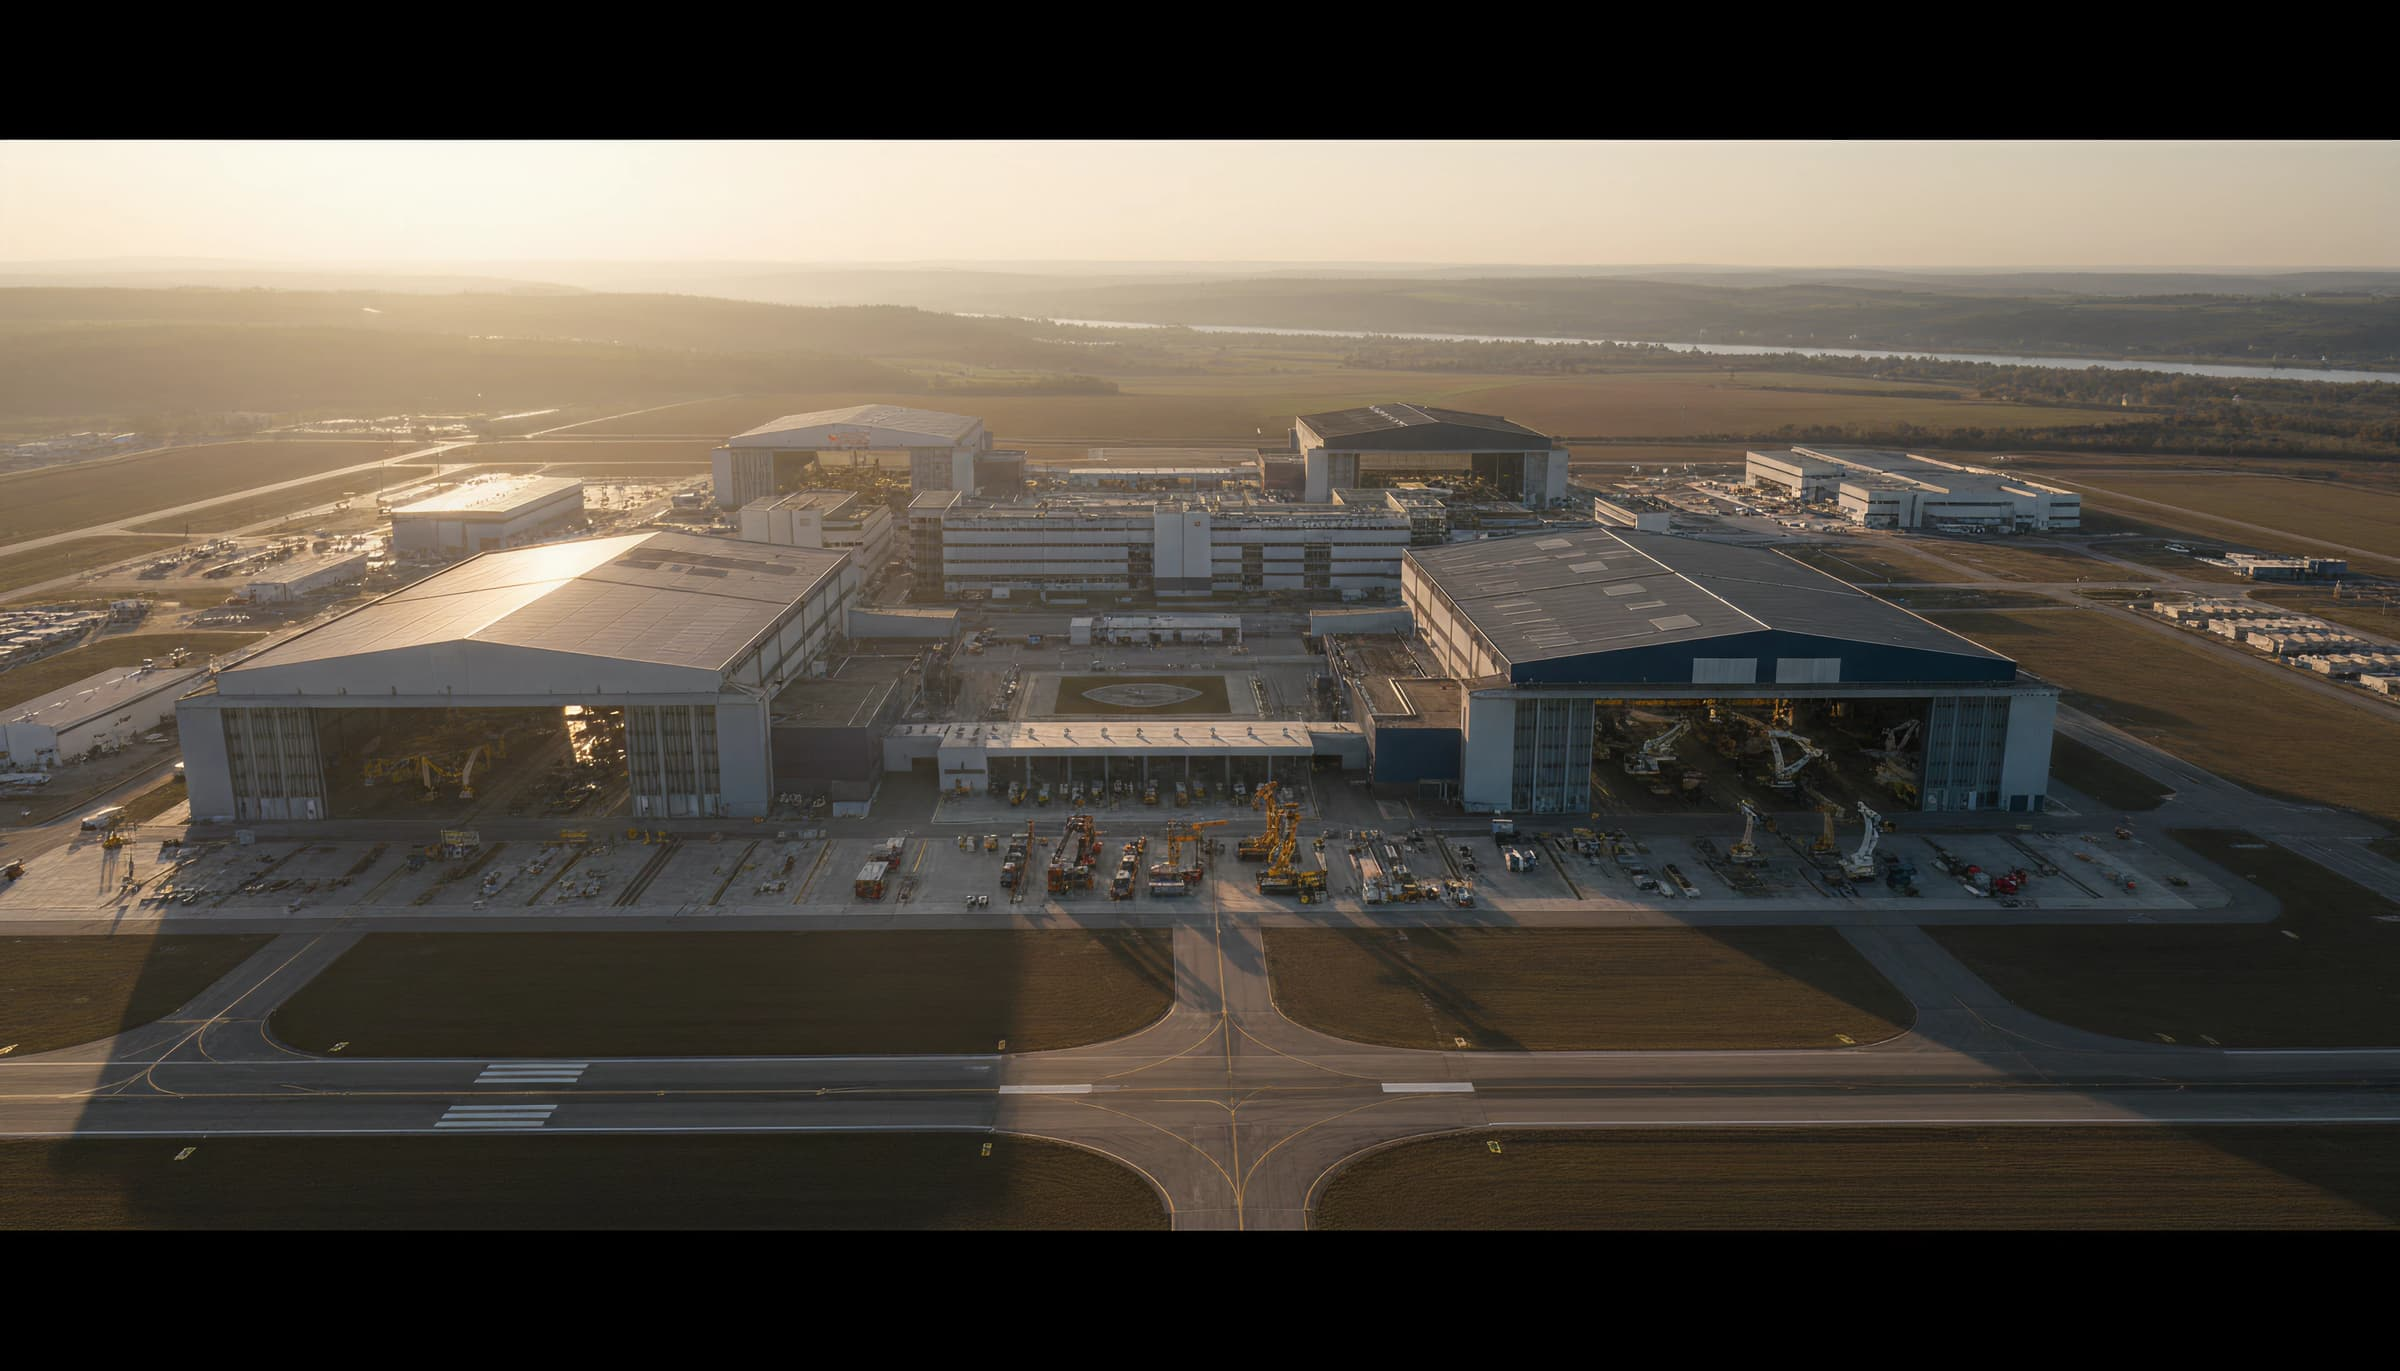
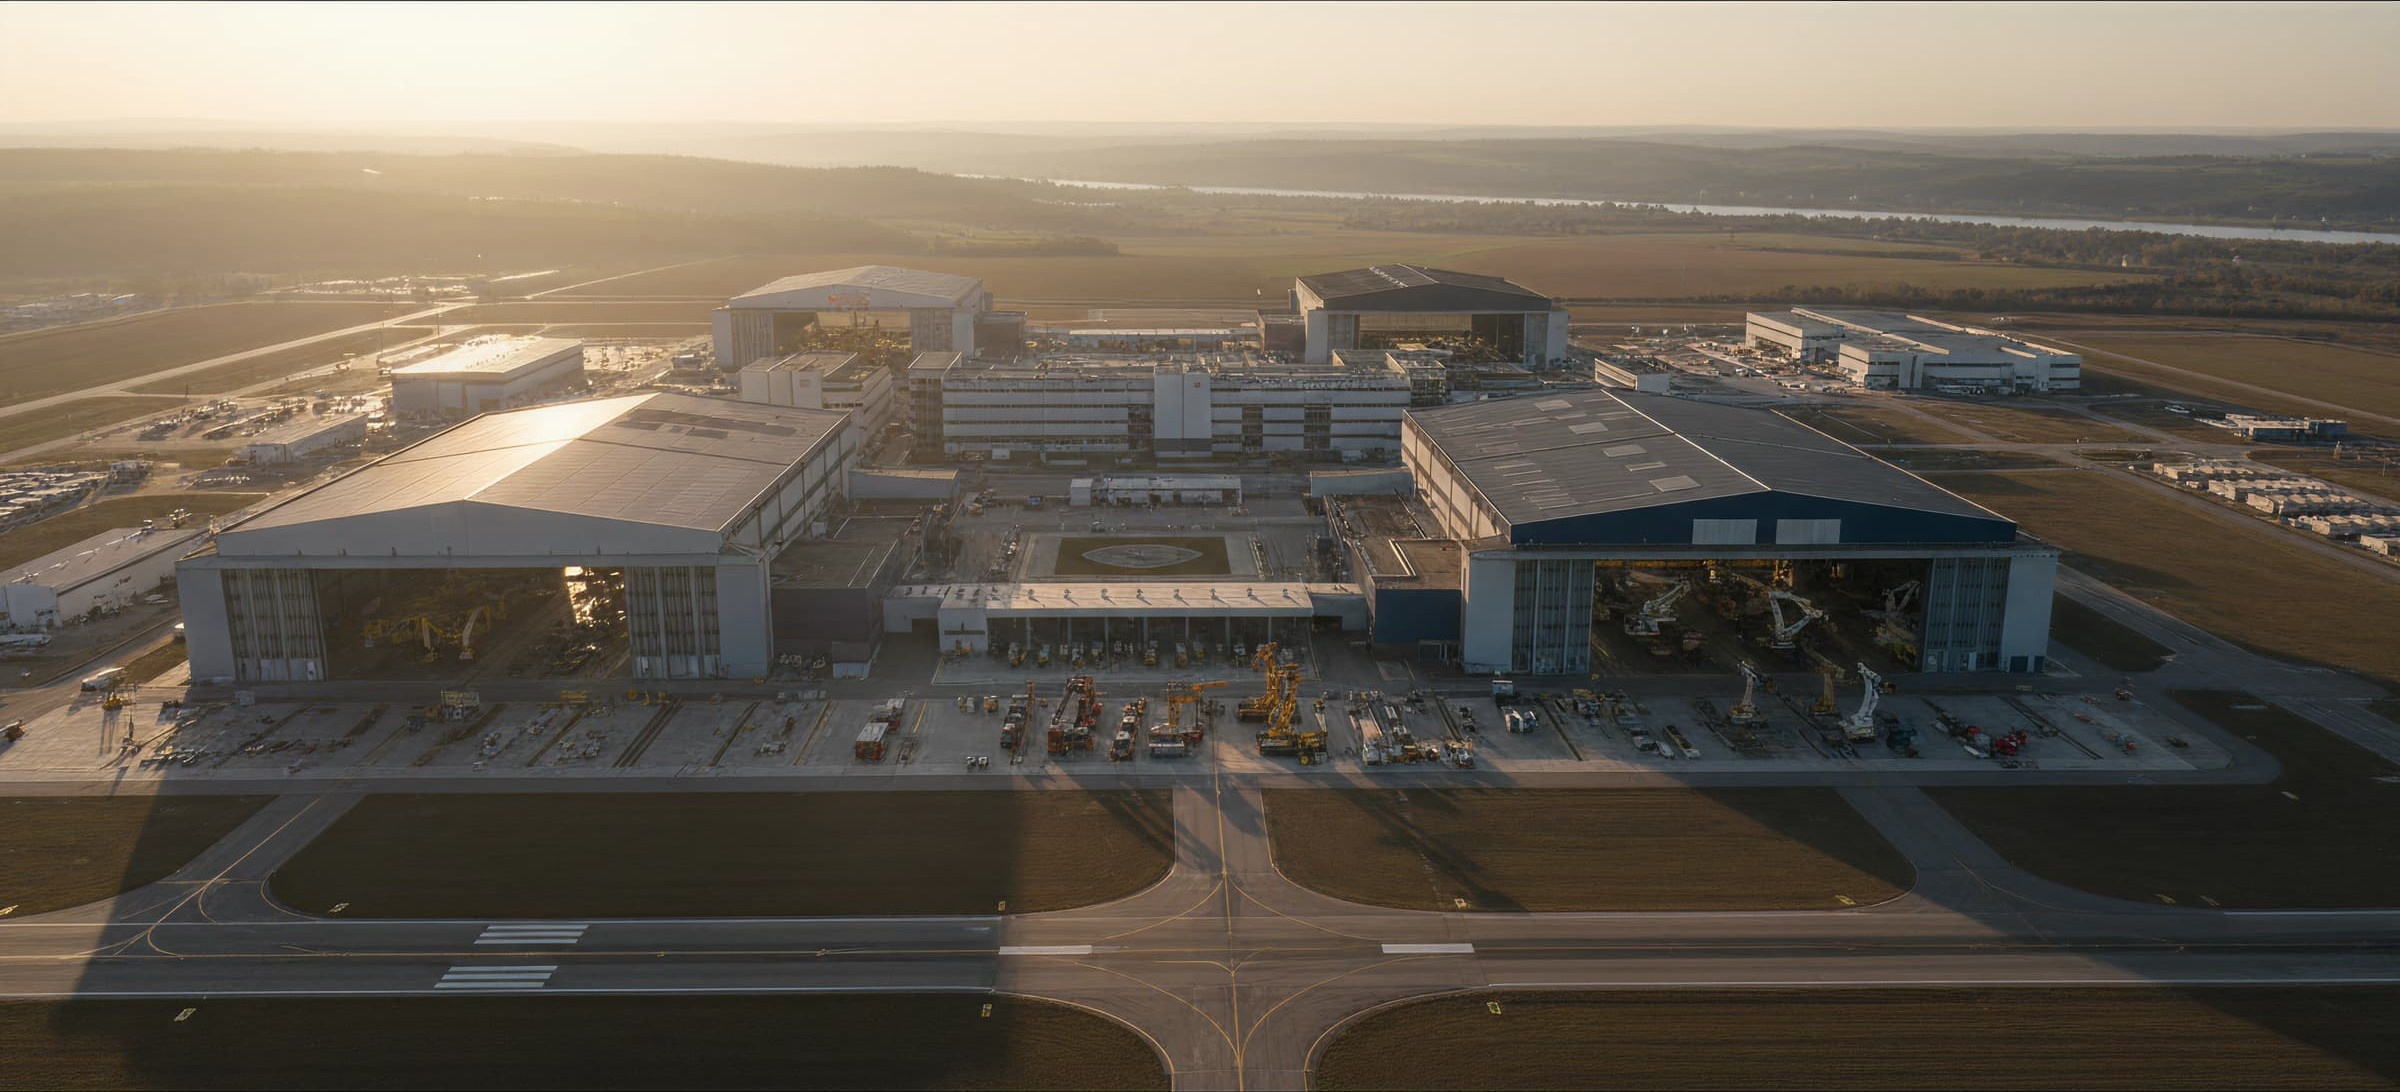
fix(hero): Crop letterbox bars from image + fix text hierarchy per review
Task 1 — Black bar: hero image had cinematic letterbox bars (139px top,
140px bottom) baked into the file. Cropped with sharp, removed CSS
workarounds (white gradient mask, object-position hack).

Task 2 — Text hierarchy (Adriana feedback):
- H1 = slogan (contextNote): Outfit, 60px, extralight
- Subtitle = description (title): Inter, 36px, light, line-height 140%
- Removed accent highlight on "Dualys"

diff --git a/src/components/sections/HeroSection.tsx b/src/components/sections/HeroSection.tsx
@@ -15,13 +15,13 @@ interface HeroSectionProps {
 export function HeroSection({ content }: HeroSectionProps) {
   return (
     <section className="relative -mt-[68px] min-h-screen overflow-hidden">
-      {/* Background image */}
+      {/* Background image — cropped, no letterbox bars */}
       <Image
         src="/images/hero-homepage.jpg"
         alt=""
         role="presentation"
         fill
-        className="object-cover object-[center_8%]"
+        className="object-cover"
         priority
         sizes="100vw"
       />
@@ -29,34 +29,27 @@ export function HeroSection({ content }: HeroSectionProps) {
       {/* Dark gradient overlay for text readability */}
       <div className="absolute inset-0 z-[1] bg-gradient-to-b from-neutral-900/10 via-neutral-900/30 to-neutral-900/75" />
 
-      {/* White blend at top to mask letterbox and blend with header */}
-      <div className="absolute inset-x-0 top-0 z-[2] h-24 bg-gradient-to-b from-white to-transparent" />
-
       {/* Content */}
       <Container className="relative z-10 flex min-h-screen flex-col justify-end pb-16 pt-32 md:pb-24">
-        {/* Context note with highlighted monetary amount */}
-        <motion.p
-          className="max-w-2xl text-base text-white md:text-[20px] md:leading-relaxed"
+        {/* H1 — Slogan: Outfit, 60px, extralight */}
+        <motion.h1
+          className="max-w-3xl font-display text-4xl font-extralight tracking-tight text-white sm:text-5xl md:text-[60px] md:leading-[1.1]"
           initial={{ opacity: 0, y: 20 }}
           animate={{ opacity: 1, y: 0 }}
           transition={{ duration: 0.5 }}
         >
-          {content.contextNote.split(/(Dualys)/).map((part, i) =>
-            part === 'Dualys'
-              ? <span key={i} className="font-semibold text-accent-400">{part}</span>
-              : <span key={i}>{part}</span>
-          )}
-        </motion.p>
+          {content.contextNote}
+        </motion.h1>
 
-        {/* Headline */}
-        <motion.h1
-          className="mt-4 max-w-3xl font-display text-3xl font-bold tracking-tight text-white sm:text-4xl md:text-5xl lg:text-6xl"
+        {/* Subtitle — Description: Inter, 36px, light, line-height 140% */}
+        <motion.p
+          className="mt-6 max-w-2xl font-sans text-lg font-light text-white/90 sm:text-xl md:text-[36px] md:leading-[1.4]"
           initial={{ opacity: 0, y: 20 }}
           animate={{ opacity: 1, y: 0 }}
           transition={{ duration: 0.5, delay: 0.1 }}
         >
           {content.title}
-        </motion.h1>
+        </motion.p>
 
         {/* CTA */}
         <motion.div
